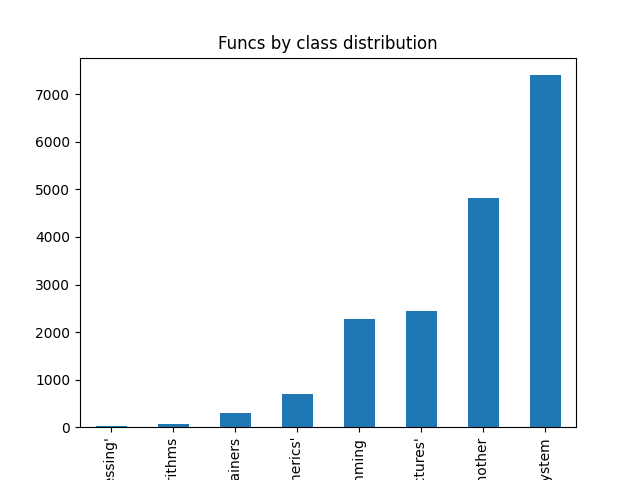
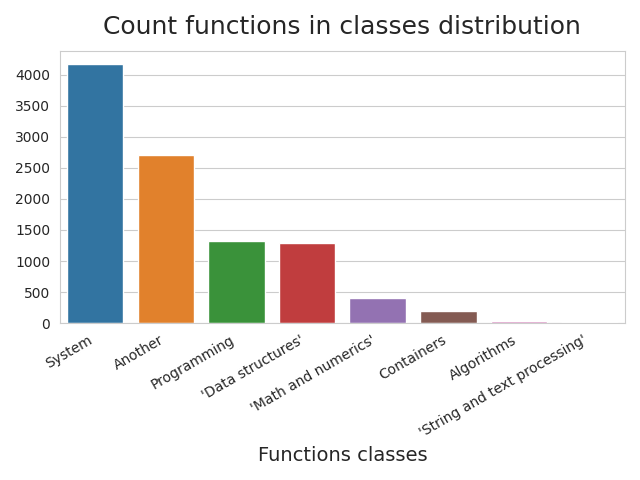
correct some visualisations

diff --git a/tools/data_visualisation/data_discover.py b/tools/data_visualisation/data_discover.py
@@ -1,5 +1,8 @@
 import pandas as pd
 import matplotlib.pyplot as plt
+import seaborn as sb
+from collections import Counter
+
 
 
 
@@ -7,27 +10,91 @@ import matplotlib.pyplot as plt
 file_with_data = '../../data/extracted.csv'
 
 
+
+
+
+
+
+
+def instruction_count(df):
+    asm_instructions_counter = Counter()
+    for asm_line in df:
+        line_code =  [line.strip().strip("'") for line in str(asm_line).split(',')]
+        asm_instructions_counter.update(Counter(line_code))
+    return asm_instructions_counter
+
+
+
+
+
 data = pd.read_csv(file_with_data, sep=';' )
+# # All the data
+# print(data.describe(include=object))
+# print(data.info())
 
 
-# All the data
-print(data.describe(include=object))
-#print(data.info())
 
-# Only unic
+
+# # Only unic
 subset = data[["func_class", "name_hash", "instructions_count", "func_body"]]
 subset = subset.drop_duplicates()
-print(subset.describe(include=object))
+# print(subset.describe(include=object))
+#
 
-# Class visualization
+
+
+# # Class visualization
+sb.set_style("whitegrid")
 subset['Inicator']=1
-subset_classes = subset.groupby("func_class")["Inicator"].sum().sort_values()
-subset_classes.plot(kind="bar", title='Funcs by class distribution')
+subset_classes = subset.groupby("func_class")["Inicator"].sum().sort_values(ascending=False).to_frame().T
+pl = sb.barplot(data=subset_classes)
+pl.set_title('Count functions in classes distribution', fontdict={'fontsize':18}, pad=12)
+pl.set_xlabel("Functions classes", fontsize=14)
+pl.set_xticklabels(pl.get_xticklabels(),rotation = 30, ha='right')
+plt.tight_layout()
 plt.savefig('./images/classes.png')
 
 
-# Len function visualization
+
+
+
+
+# # Len function visualization
 plt.clf()
-subset_classes = subset.groupby("instructions_count")["Inicator"].sum().sort_values()
-subset_classes.plot(kind="line", title='Funcs by len')
+subset_classes = subset.groupby("instructions_count")["Inicator"].sum().sort_values().to_frame()
+pl = sb.lineplot(data=subset_classes, legend=False)
+pl.set_title('Funcs by len distribution', fontdict={'fontsize':18}, pad=12)
+pl.set_xlabel("Count of instructions (function len)", fontsize=14)
 plt.savefig('./images/funcs_len.png')
+
+
+
+## Instructions distribution
+subset_instructions = subset["func_body"]
+ct = instruction_count(subset_instructions)
+asm_inst_df = pd.DataFrame(ct.most_common(50))
+asm_inst_df.columns = ["x", "y"]
+
+plt.clf()
+sb.set_theme(style="whitegrid")
+f, ax = plt.subplots(figsize=(6.5, 15))
+sb.set_color_codes("pastel")
+pl = sb.barplot(data=asm_inst_df, x= "y", y = "x",  label="Total", color="b")
+pl.set_xlabel("Times of use", fontsize=14)
+pl.set_title('Top-50 most used instructions\n and commands (not precleaned)', fontdict={'fontsize':18}, pad=12)
+plt.savefig('./images/instructions_distribution.png')
+
+
+
+
+
+
+
+
+
+
+
+
+
+
+

diff --git a/tools/data_visualisation/README.md b/tools/data_visualisation/README.md
@@ -12,10 +12,10 @@ Some data details present forward:
 
 ![example](./images/funcs_len.png)
 
-
+![example](./images/instructions_distribution.png)
 ## ToDo
 
-- [ ] more butiful plots (seaborn)
-- [ ] more informative plots
-- [ ] correct some visualisation wrongs
-- [ ] work with asm instruction (hot-map)
+- [x] more beautiful plots (seaborn)
+- [x] more informative plots
+- [x] correct some visualisation wrongs
+- [ ] visualise the graph
